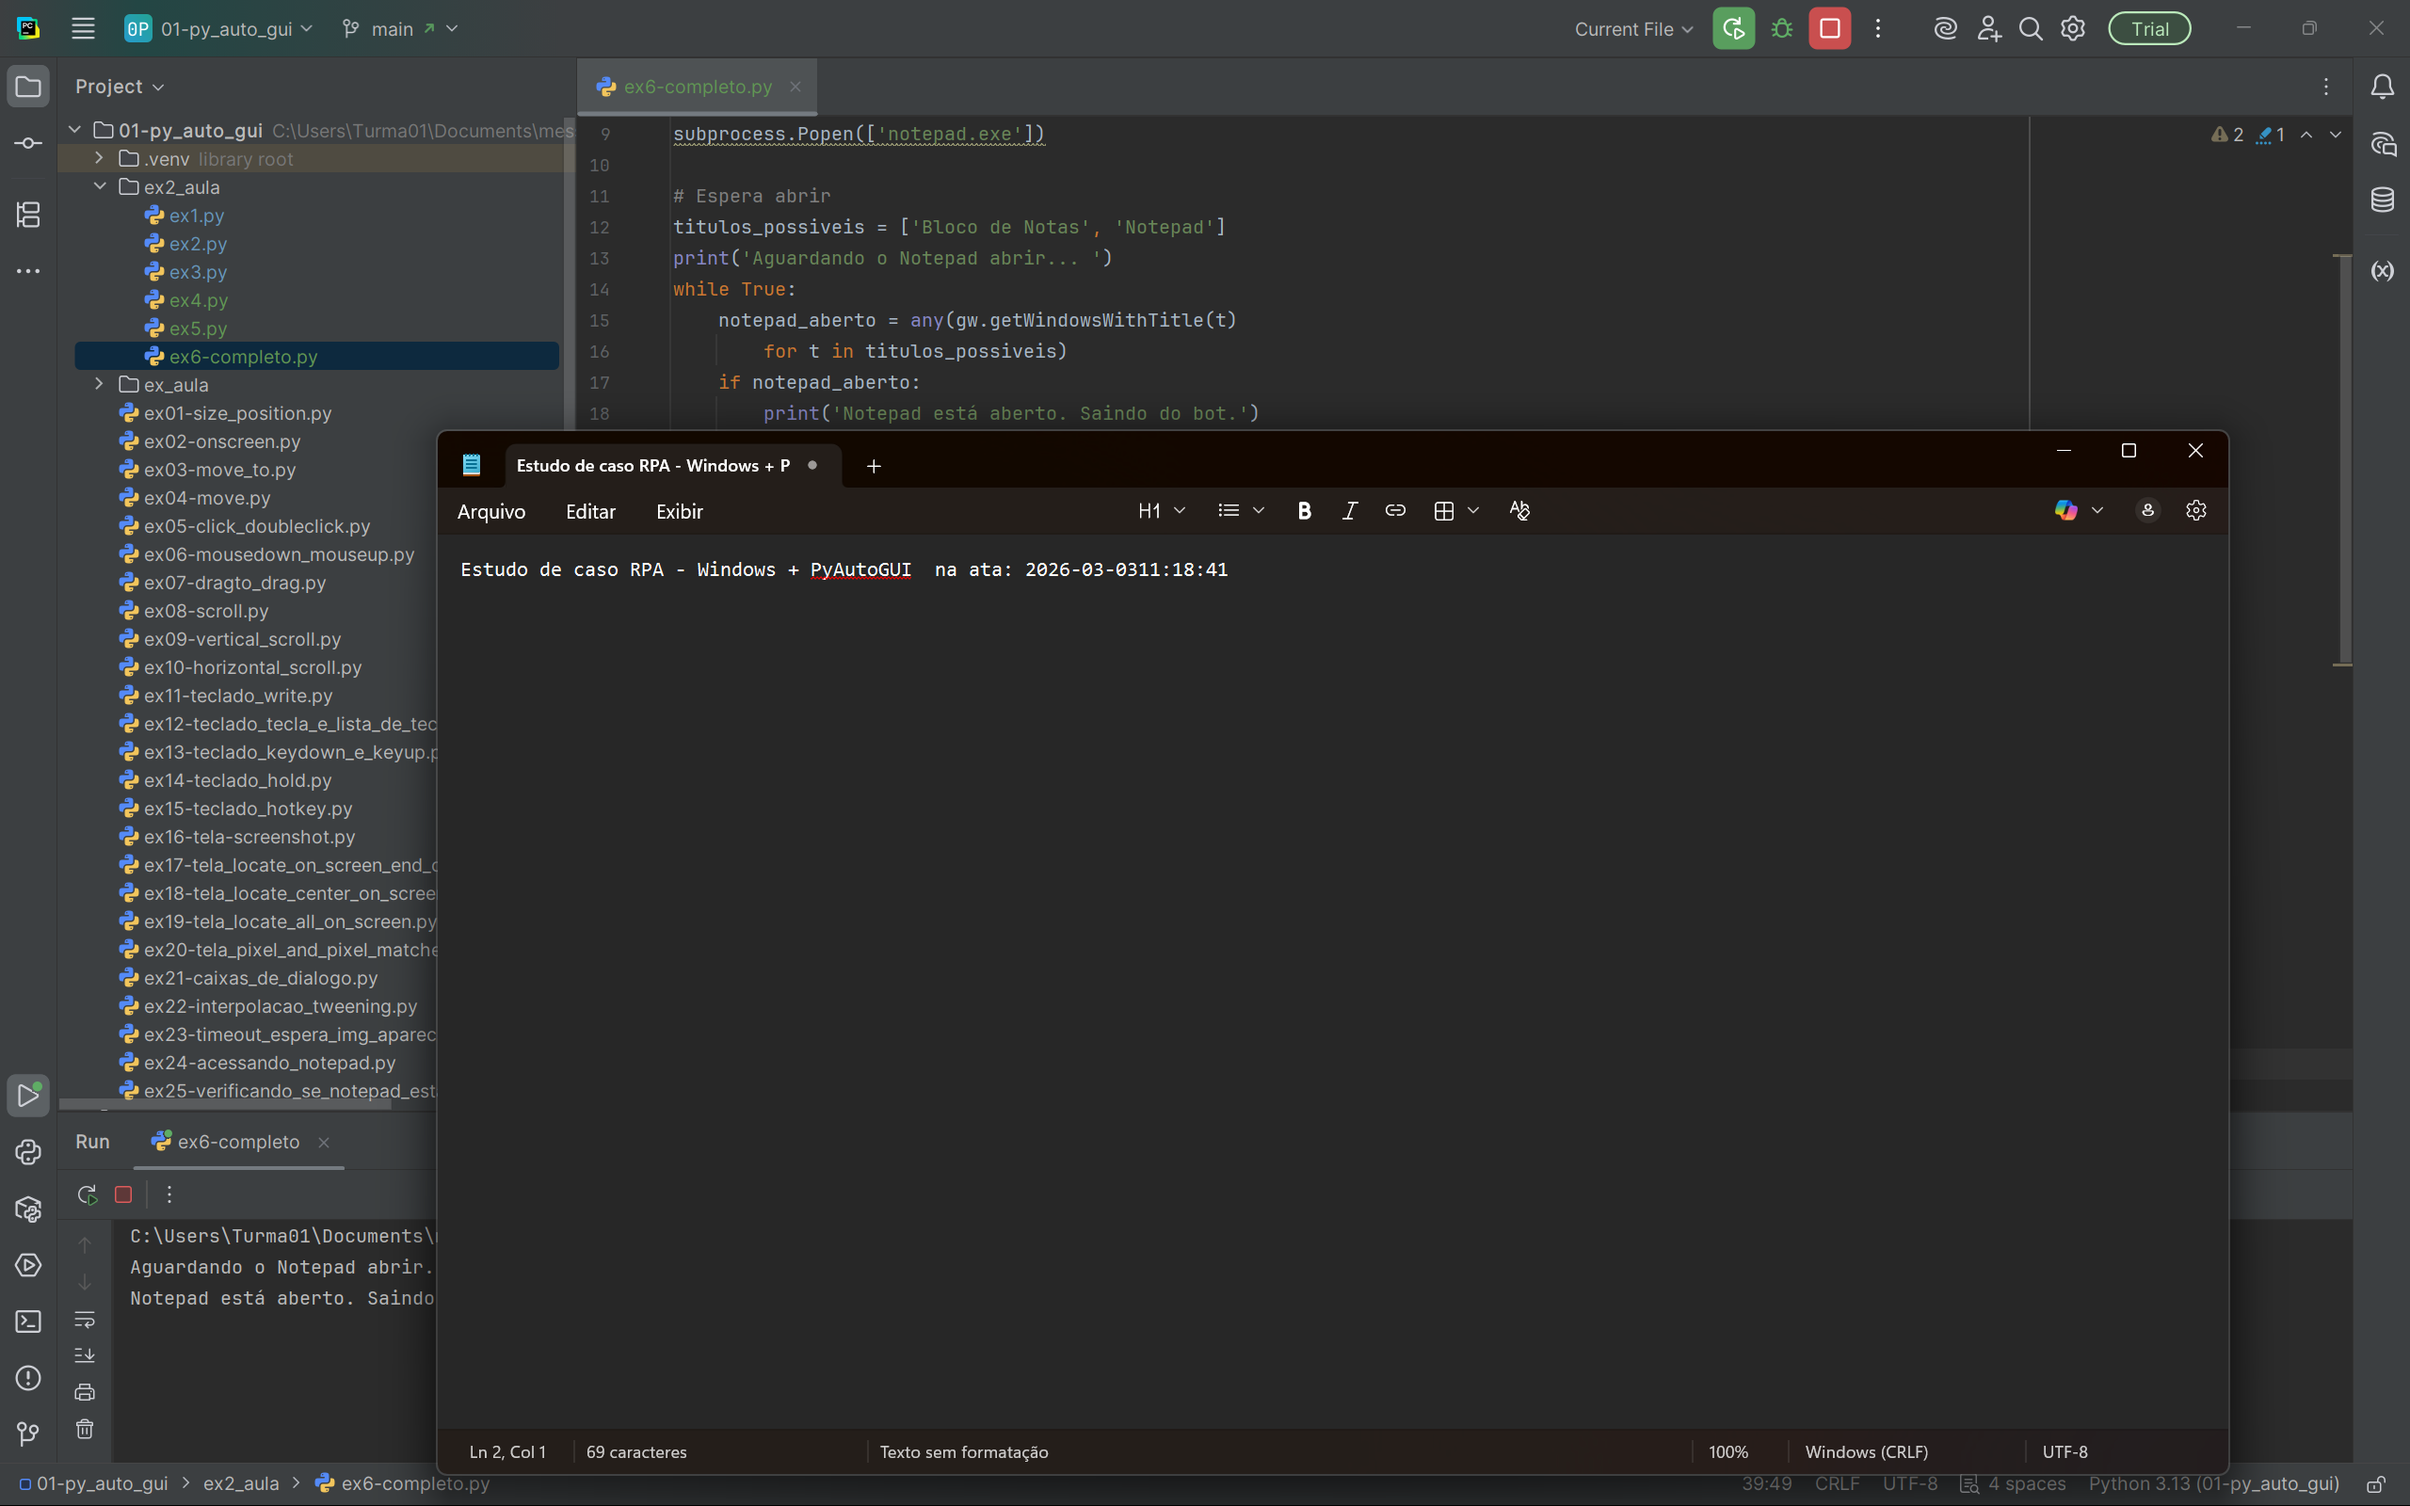
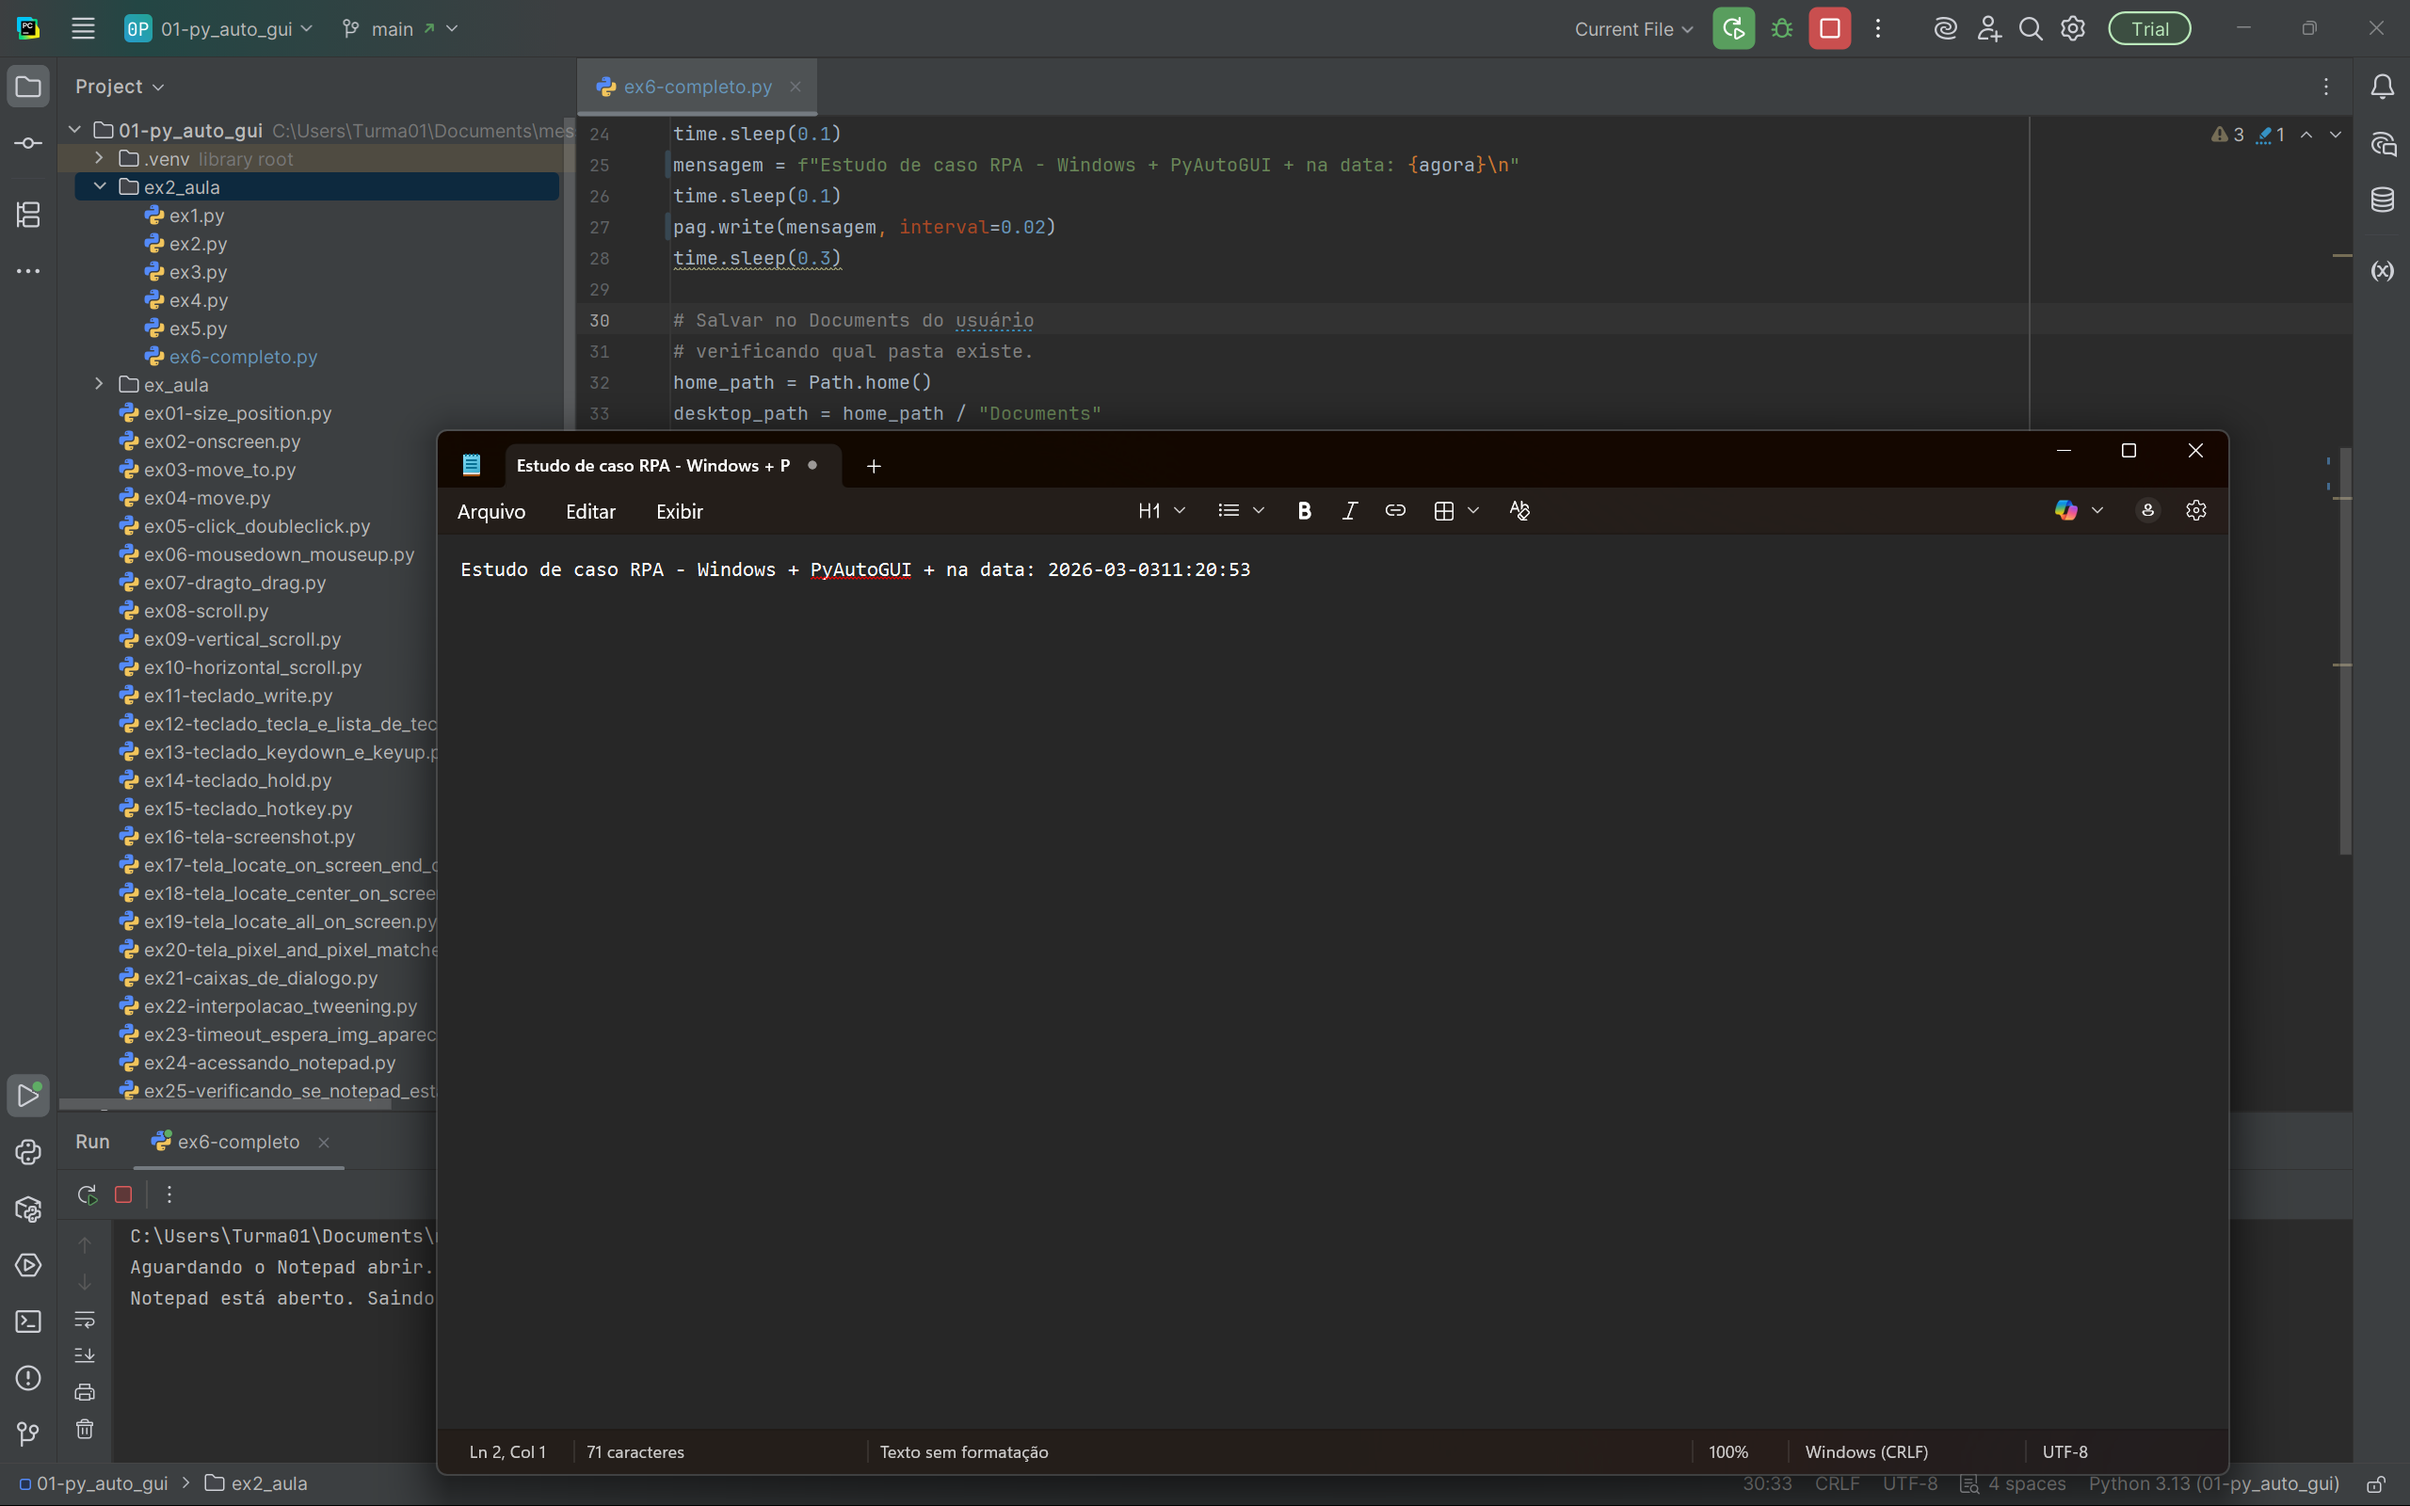
ex2

diff --git a/01-py_auto_gui/ex2_aula/ex6-completo.py b/01-py_auto_gui/ex2_aula/ex6-completo.py
@@ -22,9 +22,9 @@ while True:
 # Escrever mensagem
 agora = datetime.now().strftime("%Y-%m-%d%H:%M:%S")
 time.sleep(0.1)
-mensagem = f"Estudo de caso RPA - Windows + PyAutoGUI + na Data: {agora}\n"
+mensagem = f"Estudo de caso RPA - Windows + PyAutoGUI + na data: {agora}\n"
 time.sleep(0.1)
-pag.write(mensagem, interval=0.01)
+pag.write(mensagem, interval=0.02)
 time.sleep(0.3)
 
 # Salvar no Documents do usuário
